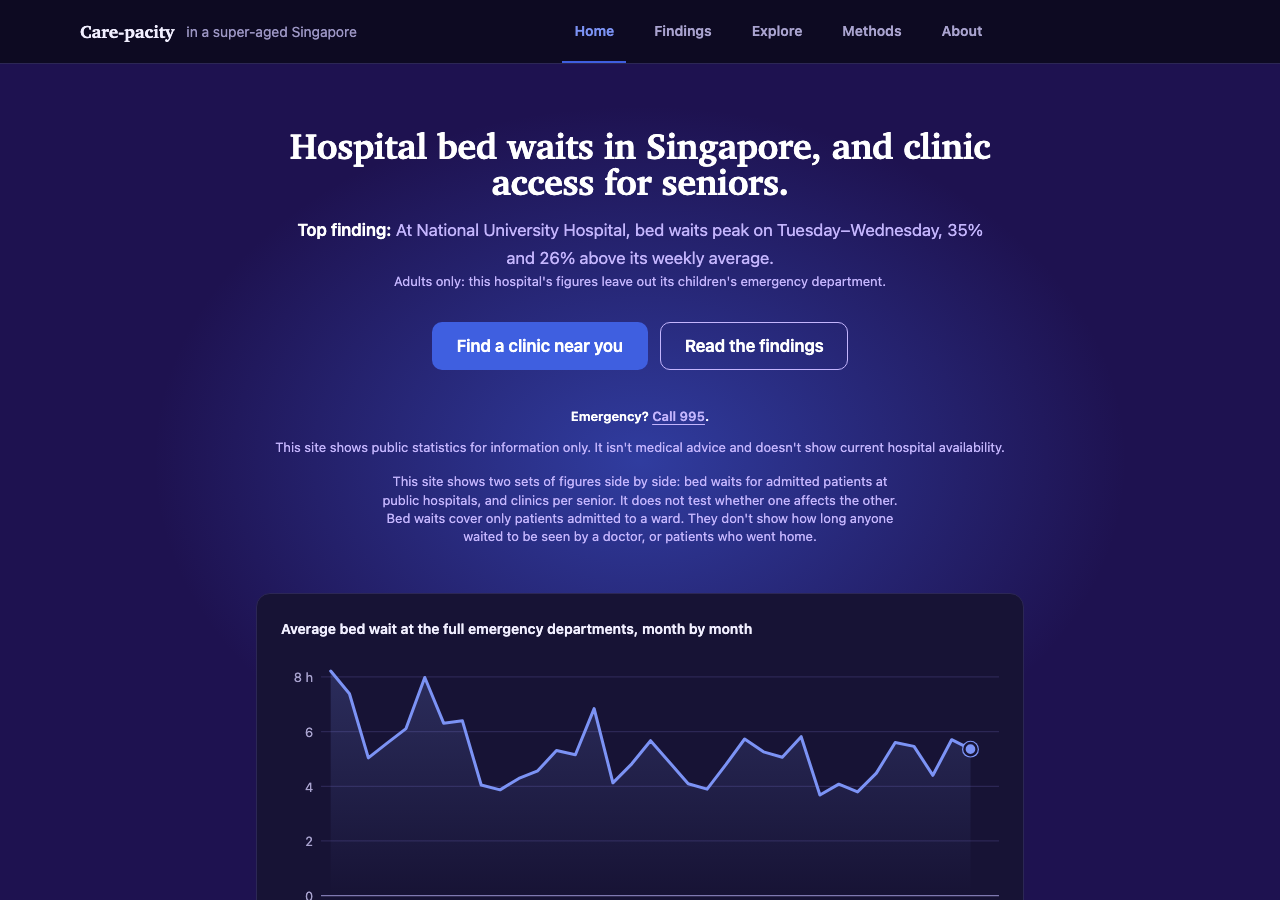
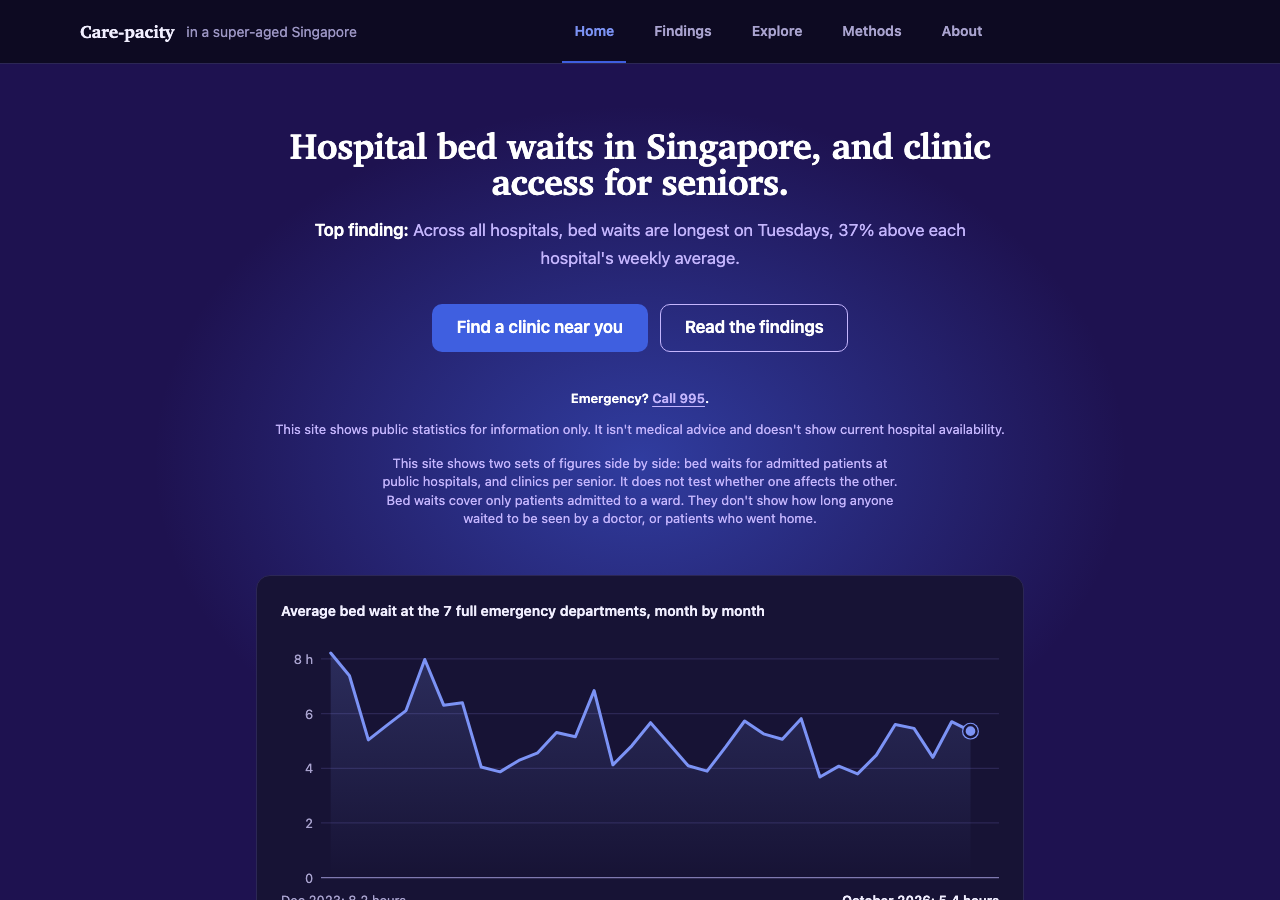
Update viduals and read.me

diff --git a/pipeline/tests/test_dq_docs.py b/pipeline/tests/test_dq_docs.py
@@ -6,6 +6,8 @@ from sg_health.quality import validate  # noqa: F401  (imports every module that
 from sg_health.quality.model import CHECKS
 
 DOC = (config.REPO_ROOT / "docs" / "data_quality.md").read_text()
+README = (config.REPO_ROOT / "README.md").read_text()
+TYPES = re.compile(r"(\d+) types of data check")
 
 
 def test_every_check_has_a_section_with_its_severity():
@@ -16,5 +18,16 @@ def test_every_check_has_a_section_with_its_severity():
 
 
 def test_no_documented_check_is_missing_from_code():
-    documented = set(re.findall(r"`((?:schema|domain|range|unit|completeness|freshness|clinic|reconcile|reference)\.[a-z0-9_]+)`", DOC))
+    documented = set(re.findall(r"`((?:schema|domain|range|unit|completeness|freshness|clinic|reconcile|reference|live|population|boundary|holiday|polyclinic)\.[a-z0-9_]+)`", DOC))
     assert documented <= set(CHECKS), f"documented but not in code: {sorted(documented - set(CHECKS))}"
+
+
+def test_readme_and_this_page_state_the_registered_number_of_check_types():
+    for name, text in (("README.md", README), ("docs/data_quality.md", DOC)):
+        stated = {int(n) for n in TYPES.findall(text)}
+        assert stated == {len(CHECKS)}, f"{name} says {sorted(stated)} types of data check; the registry has {len(CHECKS)}"
+
+
+def test_readme_does_not_hard_code_a_per_release_check_count():
+    # The number run varies by release (tables, skipped findings); the site's Data Quality page shows it.
+    assert not re.search(r"\b\d+ (?:data )?checks (?:ran|run|passed)\b|\b\d+ data checks\b", README)

diff --git a/README.md b/README.md
@@ -14,20 +14,20 @@ for any postcode. Every figure comes from the latest data release, with its date
 [One-page summary](https://sg-care-capacity-web.vercel.app/summary) ·
 [AI-assisted traceability audit](docs/audit_report.md)
 
-[![The home page in light mode: on a deep-purple hero with a royal-blue glow, the heading "Hospital bed waits in Singapore, and clinic access for seniors", the top finding (bed waits at National University Hospital peak on Tuesday and Wednesday, 35% and 26% above its weekly average, with an adults-only note), two buttons, the 995 line, a line saying the bed-wait and clinic figures are shown side by side with no link tested, then a card with the average bed wait at the full emergency departments month by month, from December 2023 (8.2 hours) to October 2026 (5.4 hours)](docs/images/home.png)](https://sg-care-capacity-web.vercel.app/)
+[![The home page in light mode: on a deep-purple hero with a royal-blue glow, the heading "Hospital bed waits in Singapore, and clinic access for seniors", the top finding (across all hospitals, bed waits are longest on Tuesdays, 37% above each hospital's weekly average), two buttons, the 995 line, a line saying the bed-wait and clinic figures are shown side by side with no link tested, then a card with the average bed wait at the 7 full emergency departments month by month, from December 2023 (8.2 hours) to October 2026 (5.4 hours)](docs/images/home.png)](https://sg-care-capacity-web.vercel.app/)
 
 <p align="center">
   <img src="docs/images/home-dark.png" width="62%" alt="The same home page in dark mode: the hero and the monthly bed-wait card on a near-black violet page">
   <img src="docs/images/home-phones.png" width="34%" alt="The home page on a 375 px phone, light and dark side by side: the claim, the two buttons stacked, the 995 line and the monthly card">
 </p>
 
-<sub>Screenshots from data release `data-2026-11-24`, made with `web/scripts/readme-screenshots.mjs`. Light and dark follow the device setting.</sub>
+<sub>Screenshots from data release `data-2026-11-25`, made with `web/scripts/readme-screenshots.mjs`. Light and dark follow the device setting.</sub>
 
 ## The site
 
 | Page | What it is for |
 |---|---|
-| **Home** `/` | The claim; the release's top finding, word for word from the insight engine; two buttons and the 995 line; the average bed wait month by month, on an hour scale with its first and latest values, and in the same card the latest month's emergency department visits and its bed wait against a year before, in words as well as a sign (when the data release has monthly figures); then two pictures with a short note each. **Bed waits against each hospital's usual**: one hour scale for every hospital, the latest week in royal blue, a status pill (▼ lower, ▬ about usual, ▲ higher, ▲▲ much higher), and a short note when a big move stays inside the hospital's own range of the 8 weeks before. **Clinics per 1,000 residents aged 65+** by planning area (plain SVG, no map script): a legend whose ranges meet with no gap, and why each unranked area isn't ranked. Each picture has its date and source, a table and CSV/Excel downloads. Then the three ways on. The data and privacy promise is in the footer of every page |
+| **Home** `/` | The claim; the release's top finding, word for word from the insight engine; two buttons and the 995 line; the average bed wait month by month, on an hour scale with its first and latest values, and in the same card the latest month's emergency department visits and its bed wait against a year before, in words as well as a sign (when the data release has monthly figures); then two pictures with a short note each. **Bed waits against each hospital's usual**: one hour scale for every hospital, the latest week in royal blue, a status pill (▼ lower, ▬ about usual, ▲ higher, ▲▲ much higher), and a short note when a big move stays inside the hospital's own week-to-week swing. **Clinics per 1,000 residents aged 65+** by planning area (plain SVG, no map script): a legend whose ranges meet with no gap, and why each unranked area isn't ranked. Each picture has its date and source, a table and CSV/Excel downloads. Then the three ways on. The data and privacy promise is in the footer of every page |
 | **Find a clinic** `/find` | A postcode search for the nearest polyclinics, CHAS GP clinics and emergency departments. The search runs in the browser and is never sent to a server; until the page's script has loaded the button waits rather than reloading the page, and anything already typed is kept. A phone shows the nearest three places, with the rest one tap away. Then the nearest emergency departments, a map of every hospital against its usual, and how the figures are made |
 | **Findings** | What the latest data release shows, each finding computed by code and shown with how sure it is |
 | **Explore** | ED trends (the hospital and date filters fold behind one line that says what is shown), the Access Map (3D, 2D and table) and the NUHS live estimates |
@@ -60,7 +60,7 @@ for any postcode. Every figure comes from the latest data release, with its date
 ## What the data shows
 
 From the [case study](docs/case_study.md). Each figure was checked again against data release
-`data-2026-11-17` on 20 Nov 2026 and against `data-2026-11-24` on 25 Nov 2026, and is unchanged:
+`data-2026-11-17` on 20 Nov 2026 and against `data-2026-11-25` on 25 Nov 2026, and is unchanged:
 
 1. **ED demand is high and steady.** The 8 sites MOH reported throughout (7 emergency departments
    and Alexandra Hospital's urgent care centre) recorded 868,644 visits in 2023, 863,988 in 2024
@@ -86,7 +86,7 @@ flowchart LR
   end
   subgraph Pipeline["Weekly pipeline (GitHub Actions)"]
     RAW[("Raw zone (private)<br/>every file unchanged,<br/>SHA-256 hashed")]
-    DQ{"87 data checks<br/>error = don't publish"}
+    DQ{"38 types of data check<br/>error = don't publish"}
     MART["DuckDB marts<br/>+ insight engine"]
   end
   REL[("Data release<br/>GitHub Release, signed,<br/>hashes + download log")]
@@ -110,10 +110,13 @@ number with its "Data as of" date and source.
   Wayback Machine keeps its own dated copy of each MOH and NUHS file, and every release file is signed
   by the workflow that built it (`gh attestation verify`). Steps:
   [Verify a figure](docs/methodology.md#verify-a-figure).
-- **Data checks that can stop a release.** 87 checks ran on the latest release: units, ranges,
-  completeness, freshness and reconciliation between sources. A failing error-level check blocks
-  publishing, and the site keeps serving the last good release. Bad rows are set aside, never
-  corrected.
+- **Data checks that can stop a release.** 38 types of data check cover units, ranges,
+  completeness, freshness and reconciliation between sources; each is documented, with its threshold,
+  in [data_quality.md](docs/data_quality.md). Most types run once for every table they apply to, and
+  findings the insight engine skips are logged too, so the number of checks run varies by release.
+  The live [Data Quality page](https://sg-care-capacity-web.vercel.app/data-quality) shows the latest run. A failing
+  error-level check blocks publishing, and the site keeps serving the last good release. Bad rows
+  are set aside, never corrected.
 - **Nothing filled in.** Missing values stay missing: a gap in a chart, an empty cell in a CSV.
 - **Findings are computed, not written.** Each finding is produced by fixed code from the data and
   published only if it passes a statistical test, corrected for the number of tests run. Findings
@@ -128,9 +131,9 @@ number with its "Data as of" date and source.
   year-on-year changes matched in every row. So did the all-hospital monthly series, the clinics per 1,000 seniors in every
   area, and the three headline findings: the weekday test, the visits and bed-wait correlation, and the priority ranking.
   The live API served the same values.
-- **Tests on every push.** Over 2,400 automated tests: about 1,140 website unit tests, about 690 browser
-  checks, about 380 pipeline tests and about 140 API tests run in CI, and about 100 acceptance checks run
-  on the real built data (`make test`). The browser checks cover every page at 1280 and 375 px wide (with
+- **Tests on every push.** Over 2,400 automated tests (counted on 27 Nov 2026): about 1,150 website unit
+  tests, about 680 browser checks, about 390 pipeline tests and about 140 API tests run in CI, and about
+  110 acceptance checks run on the real built data (`make test`). The browser checks cover every page at 1280 and 375 px wide (with
   overflow checks at 768 and 1440 px), WCAG 2.1 AA accessibility with axe on every page (2.2 AA as well on
   the home page and the newer pages) in light and dark. Lighthouse checks the home, finder, findings and ED trends pages against budgets: largest paint
   within 2.5 s (target 2.0 s), layout shift under 0.01 and under 200 kB of JavaScript. It applies a slow 4G network and a

diff --git a/docs/case_study.md b/docs/case_study.md
@@ -314,7 +314,7 @@ Values from weekly data release `data-2026-11-08`.
 | Metric | Definition | Current value | Target | Met? |
 |---|---|---|---|---|
 | Publication lag | Days between MOH's latest report date and the weekly data release | 8 days (31 Oct → 8 Nov 2026) | 7 days or less: each release carries MOH's latest week | **Not met** in this release |
-| Blocking checks | Failed checks that block publishing, in the published data release | 0 of 77 checks | 0 in every published release | Met (enforced: a failure stops publishing) |
+| Blocking checks | Failed checks that block publishing, in the published data release | 0 (78 checks ran) | 0 in every published release | Met (enforced: a failure stops publishing) |
 | ED coverage | Days with both MOH figures, out of the days each site is reported | 100% for all 9 sites | 100% of the days MOH reports; any gap shown, never filled | Met |
 | Visitors | Page views counted by Vercel Web Analytics: page paths only, no cookies, searches never recorded | Counting from 11 Nov 2026; no figure yet | None set | Not applicable yet |
 | Provenance | Figures on the site showing their "Data as of" date and source | All | 100% | Met (enforced by tests). An [AI-assisted audit, run by the author](audit_report.md) of `data-2026-11-08` found one chart giving MOH's date for NUHS's figures; it was fixed, and each source now shows its own date |

diff --git a/docs/pipeline.md b/docs/pipeline.md
@@ -144,7 +144,8 @@ Parsed rows pass through a **load gate** before reaching a clean table. Rows tha
 check go to `quarantine_<table>` and never into the clean table; WARN rows are published and
 flagged. The gate never changes a value. `sg-health validate` adds the dataset-level checks
 (completeness, freshness, outliers, reconciliation), logs every check to `dq_results`, prints a
-summary table, and **exits 1 if publishing must be blocked**:
+summary table, and **exits 1 if publishing must be blocked**. Output from an early run (the number of
+checks run grows with the data; the latest is on the site's Data Quality page):
 
 ```
 STATUS              SEVERITY  CHECK                            TABLE               ROWS  DETAILS

diff --git a/docs/data_quality.md b/docs/data_quality.md
@@ -1,7 +1,7 @@
 # Data quality
 
-Every number this project publishes passes through a set of automated checks first. This page
-lists each check: what it guards against, its threshold, and why that threshold was chosen.
+Every number this project publishes passes through a set of automated checks first. There are
+38 types of data check. This page lists each check: what it guards against, its threshold, and why that threshold was chosen.
 Thresholds were tested against the real data on 2026-11-06; the "On real data" notes give
 what each check found then.
 

diff --git a/docs/adr/0002-validation-gate.md b/docs/adr/0002-validation-gate.md
@@ -45,7 +45,7 @@ The project's data principles say:
 
 ## Consequences
 
-- **What reaches the site has passed every blocking check.** In the current snapshot,
+- **What reaches the site has passed every blocking check.** In the first published snapshot,
   `data-2026-11-06`, 69 checks ran: 64 passed, 3 warned, 1 was skipped, 1 row-level error
   quarantined the misplaced clinic, and 0 blocked publishing.
 - **A quarantined row stays missing** until the source fixes it. The site shows that it's
